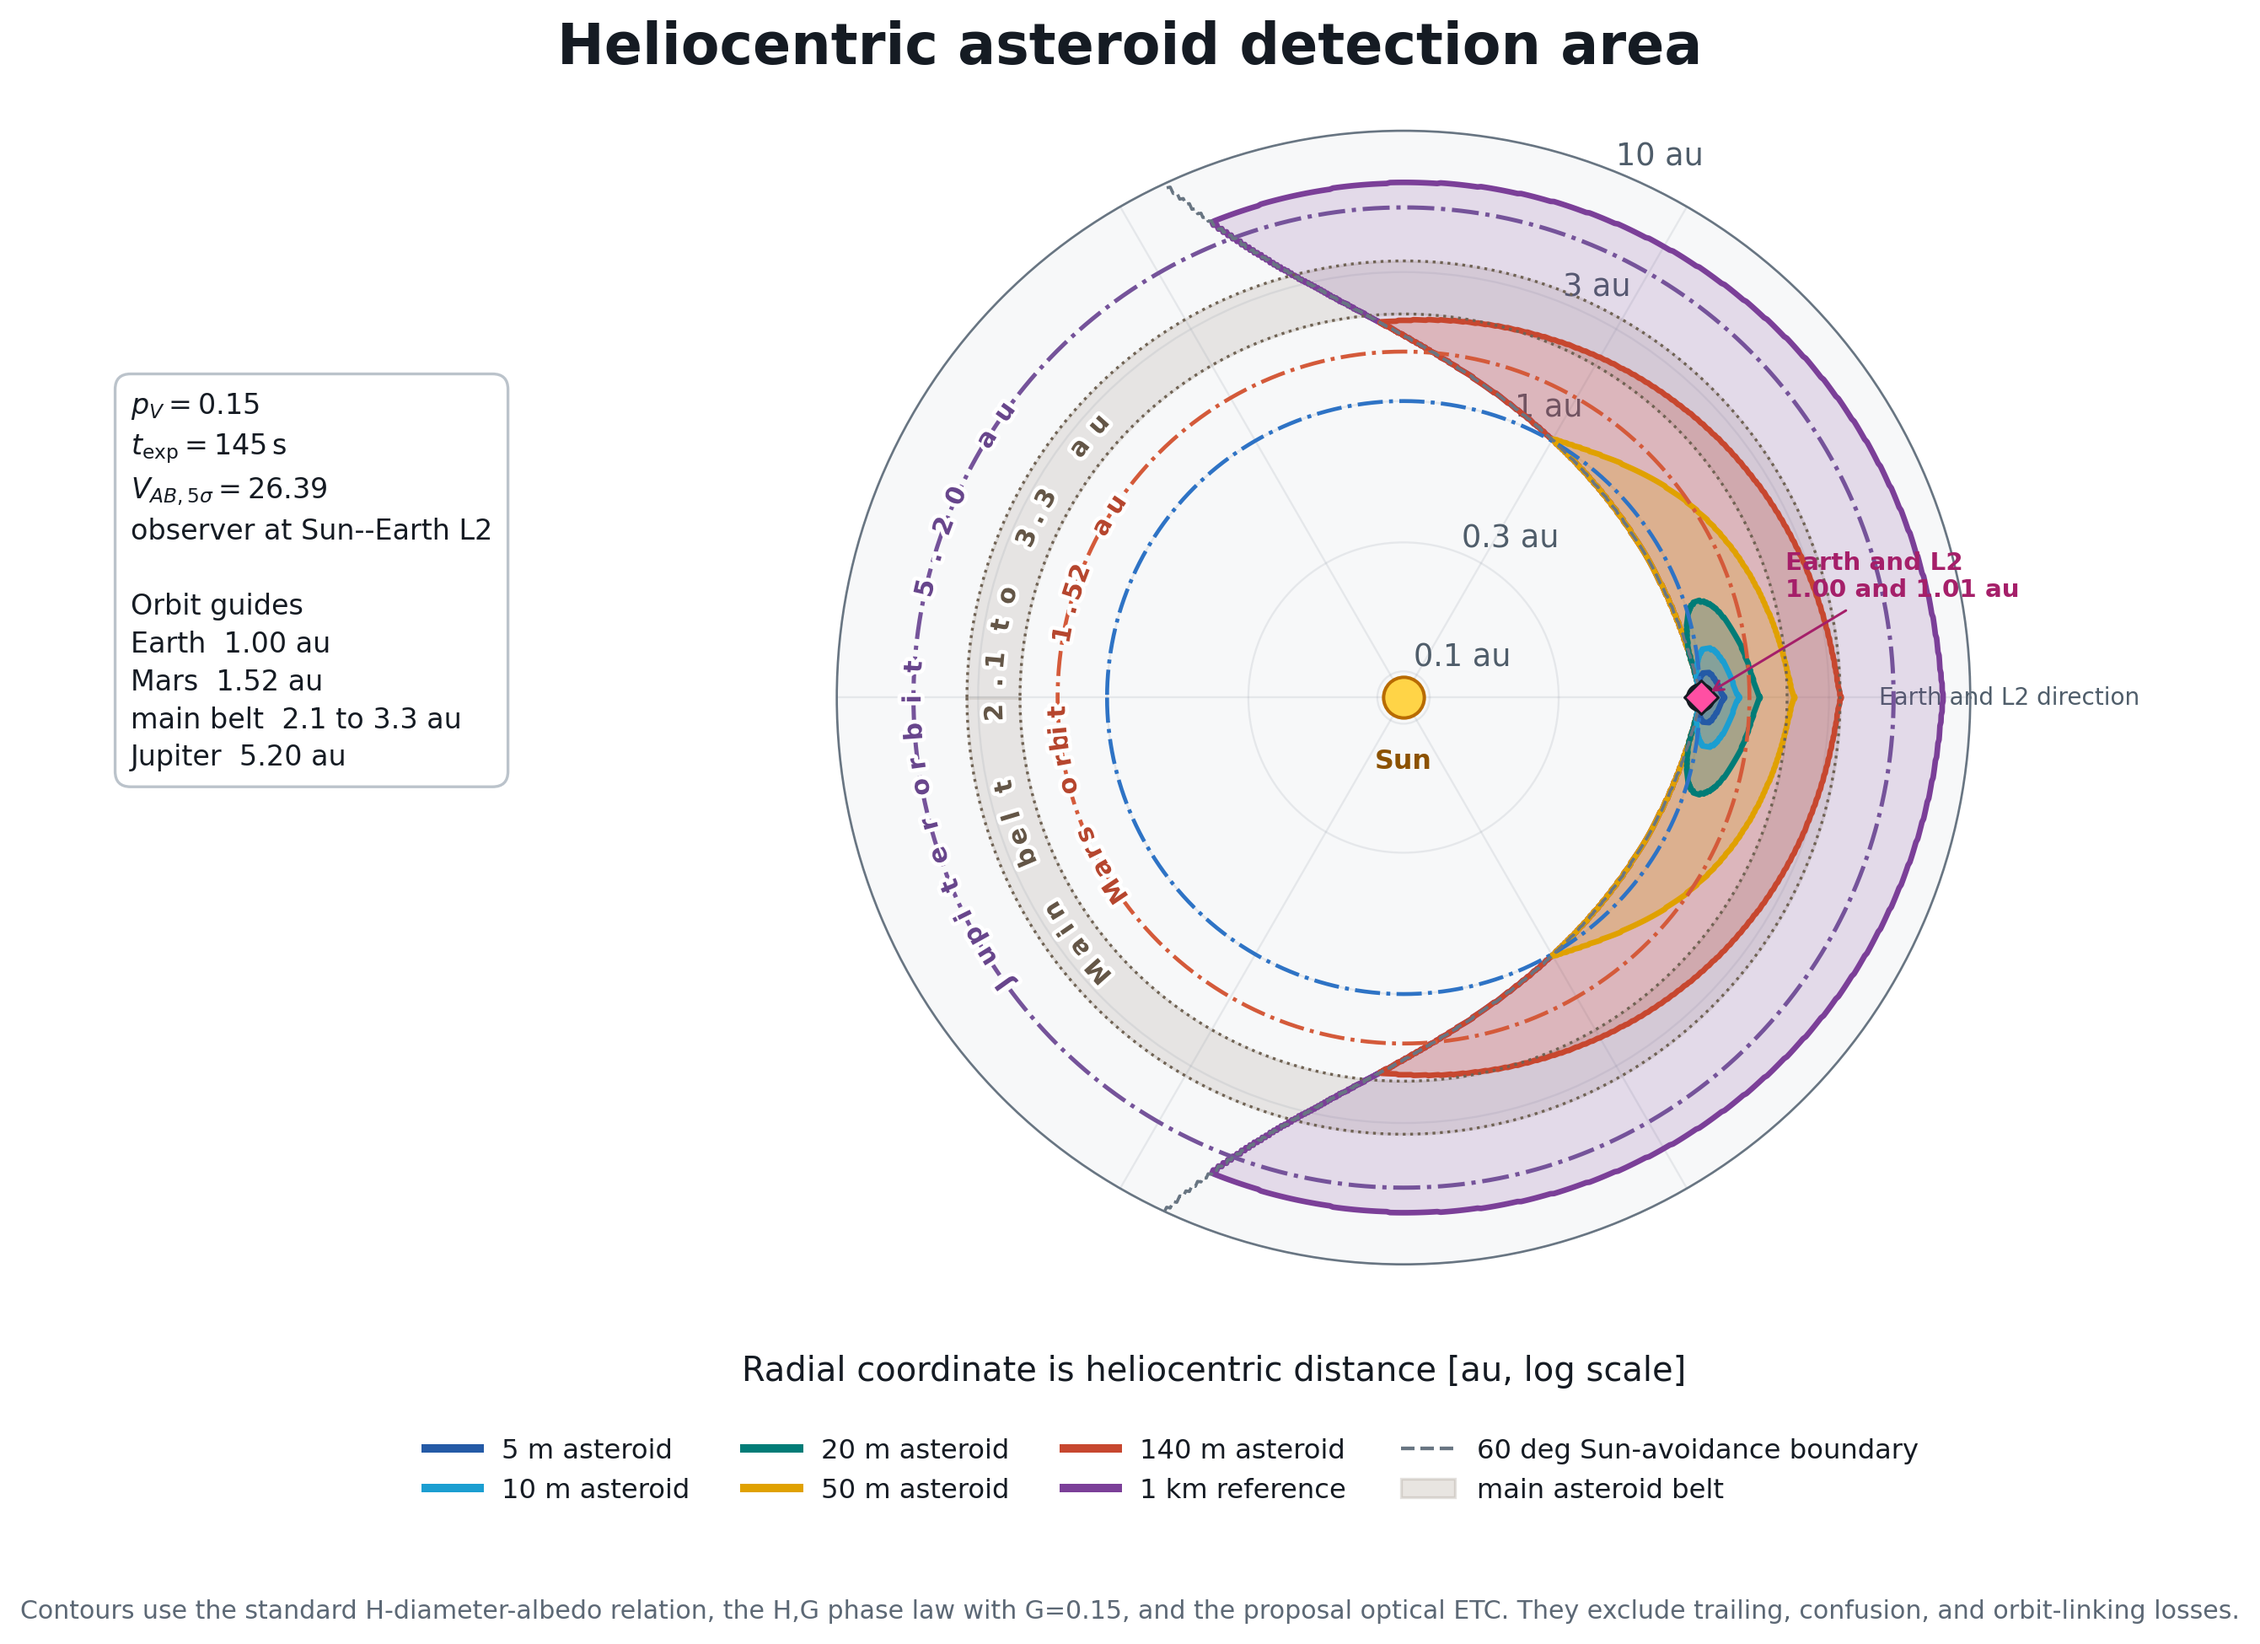
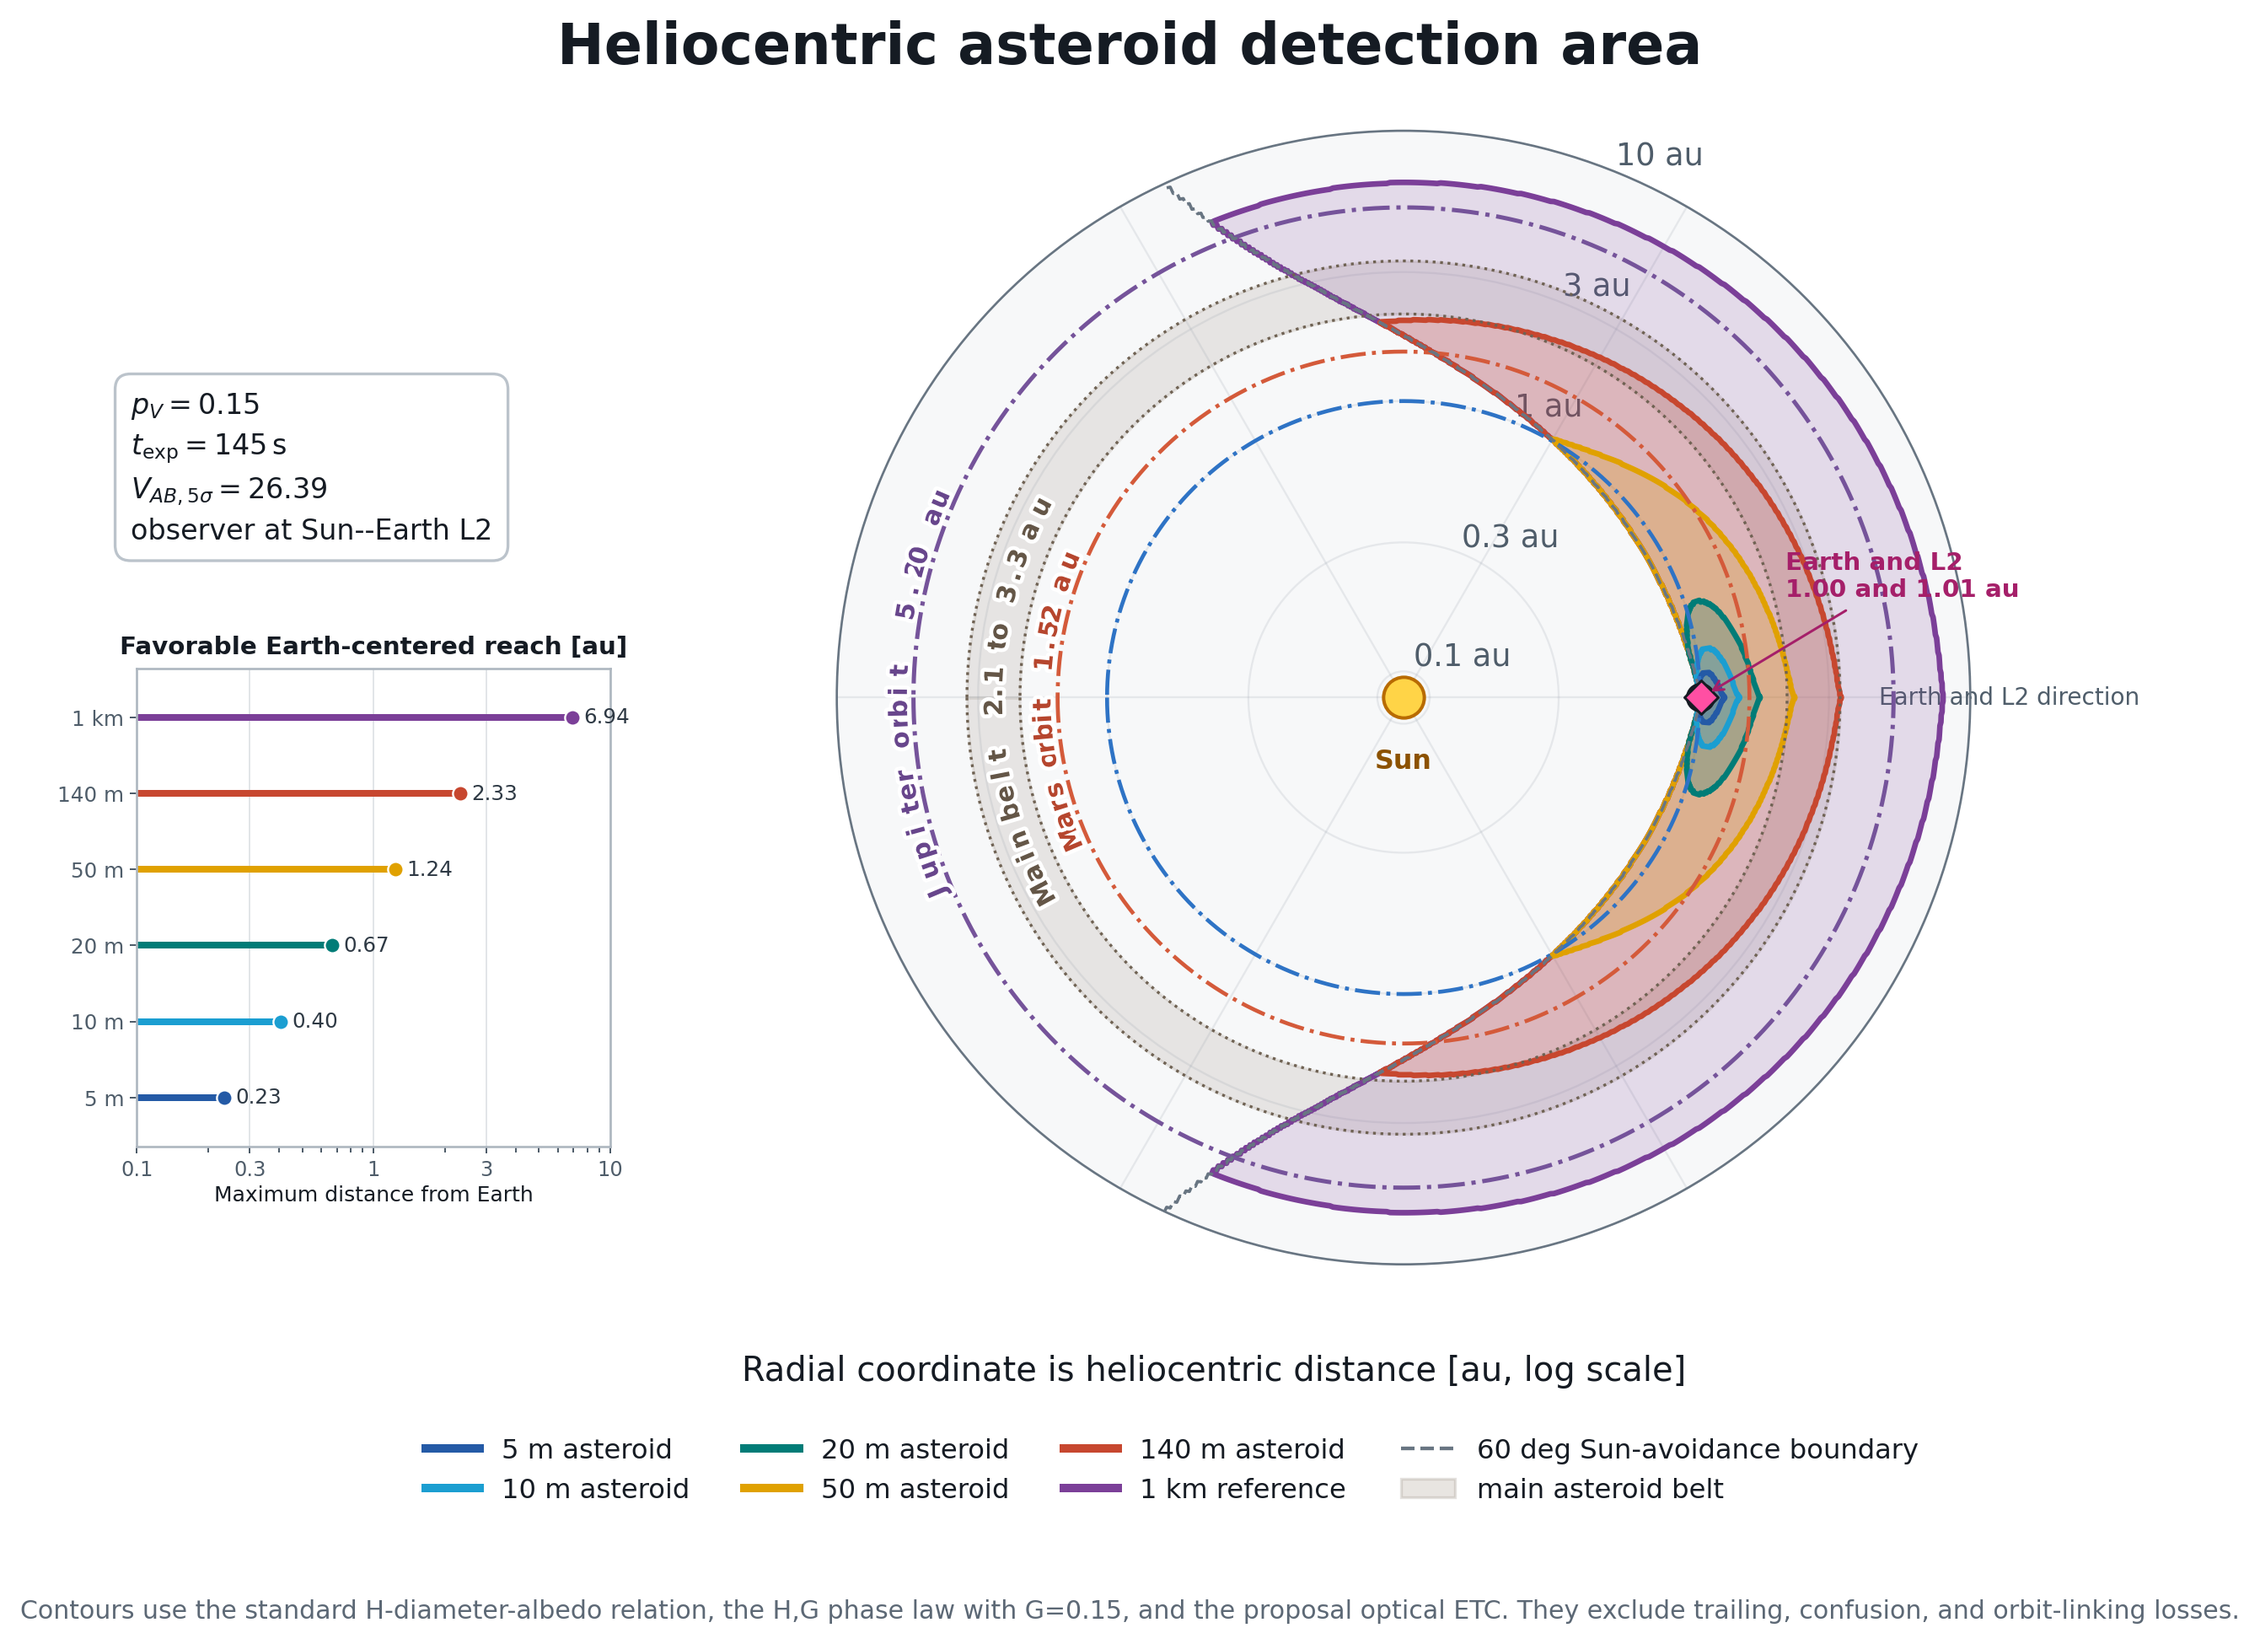
Replace Figure C.8 with heliocentric reach

diff --git a/make_neo_heliocentric_reach.py b/make_neo_heliocentric_reach.py
@@ -7,8 +7,10 @@ import matplotlib as mpl
 import matplotlib.pyplot as plt
 import matplotlib.patheffects as path_effects
 import numpy as np
+from matplotlib.font_manager import FontProperties
 from matplotlib.lines import Line2D
 from matplotlib.patches import Patch
+from matplotlib.textpath import TextPath
 
 import slitless_etc as etc
 from neo_population_model import hg_phase_function
@@ -95,6 +97,60 @@ def detected_mask(diameter_m, geometry, field_of_regard, limiting_magnitude):
     return field_of_regard & (apparent_magnitude <= limiting_magnitude)
 
 
+def earth_centered_reach_au(limiting_magnitude):
+    """Return the favorable maximum Earth-centered reach by diameter."""
+    theta = np.linspace(-np.pi, np.pi, 901)
+    earth_distance_au = np.geomspace(0.001, 12.0, 3000)
+    theta_grid, distance_grid = np.meshgrid(
+        theta,
+        earth_distance_au,
+        indexing="ij",
+    )
+    x_grid = distance_grid * np.cos(theta_grid)
+    y_grid = distance_grid * np.sin(theta_grid)
+
+    observer_x = L2_RADIUS_AU - EARTH_ORBIT_AU
+    delta_au = np.hypot(x_grid - observer_x, y_grid)
+    heliocentric_distance_au = np.hypot(x_grid + EARTH_ORBIT_AU, y_grid)
+    delta_safe = np.maximum(delta_au, 1.0e-8)
+    radius_safe = np.maximum(heliocentric_distance_au, 1.0e-8)
+
+    asteroid_to_sun_x = -EARTH_ORBIT_AU - x_grid
+    asteroid_to_sun_y = -y_grid
+    asteroid_to_l2_x = observer_x - x_grid
+    asteroid_to_l2_y = -y_grid
+    phase_cosine = (
+        asteroid_to_sun_x * asteroid_to_l2_x
+        + asteroid_to_sun_y * asteroid_to_l2_y
+    ) / (radius_safe * delta_safe)
+    phase_deg = np.degrees(np.arccos(np.clip(phase_cosine, -1.0, 1.0)))
+    phase_function = hg_phase_function(phase_deg)
+
+    elongation_cosine = -(x_grid - observer_x) / delta_safe
+    elongation_deg = np.degrees(
+        np.arccos(np.clip(elongation_cosine, -1.0, 1.0))
+    )
+    accessible = (
+        (elongation_deg >= ELONGATION_MIN_DEG)
+        & (heliocentric_distance_au >= 0.08)
+    )
+    geometry_term = (
+        5.0 * np.log10(radius_safe * delta_safe)
+        - 2.5 * np.log10(np.maximum(phase_function, 1.0e-12))
+    )
+
+    reach = {}
+    for diameter_m in DIAMETERS_M:
+        absolute_magnitude = 5.0 * np.log10(
+            1329.0 / ((diameter_m / 1000.0) * np.sqrt(ALBEDO))
+        )
+        detected = accessible & (
+            absolute_magnitude + geometry_term <= limiting_magnitude
+        )
+        reach[diameter_m] = float(np.max(distance_grid[detected]))
+    return reach
+
+
 def add_orbit_guides(axis, theta):
     """Draw Solar System orbit guides behind the detection contours."""
     axis.fill_between(
@@ -149,8 +205,22 @@ def add_orbit_guides(axis, theta):
 
 def add_arc_text(axis, text, radius_au, color, span_deg):
     """Place text along an orbit arc centered on the nine-o'clock direction."""
+    font_size = 9.0
+    font_properties = FontProperties(family="DejaVu Sans", weight="bold")
     glyphs = list(text)
-    weights = np.array([0.45 if glyph == " " else 1.0 for glyph in glyphs])
+    glyph_widths = []
+    for glyph in glyphs:
+        if glyph == " ":
+            glyph_widths.append(0.38 * font_size)
+            continue
+        bounds = TextPath(
+            (0.0, 0.0),
+            glyph,
+            size=font_size,
+            prop=font_properties,
+        ).get_extents()
+        glyph_widths.append(max(bounds.width, 0.20 * font_size))
+    weights = np.asarray(glyph_widths)
     cumulative = np.cumsum(weights) - 0.5 * weights
     offsets = (cumulative / weights.sum() - 0.5) * np.radians(span_deg)
     angles = np.pi + offsets[::-1]
@@ -167,7 +237,7 @@ def add_arc_text(axis, text, radius_au, color, span_deg):
             rotation=rotation,
             rotation_mode="anchor",
             color=color,
-            fontsize=9.0,
+            fontsize=font_size,
             weight="bold",
             path_effects=[
                 path_effects.withStroke(linewidth=2.8, foreground="white")
@@ -243,24 +313,84 @@ def add_solar_system_labels(axis):
     add_arc_text(
         axis,
         "Mars orbit  1.52 au",
-        MARS_ORBIT_AU,
+        1.72,
         "#B6462E",
-        span_deg=72,
+        span_deg=49,
     )
     add_arc_text(
         axis,
         "Main belt  2.1 to 3.3 au",
         2.60,
         "#645647",
-        span_deg=88,
+        span_deg=60,
     )
     add_arc_text(
         axis,
         "Jupiter orbit  5.20 au",
-        JUPITER_ORBIT_AU,
+        5.85,
         "#68468C",
-        span_deg=75,
+        span_deg=48,
     )
+
+
+def add_earth_reach_inset(figure, reach_by_diameter):
+    """Add a compact log-scale summary that supports warning-time estimates."""
+    inset = figure.add_axes((0.028, 0.295, 0.225, 0.285))
+    y_positions = np.arange(len(DIAMETERS_M))
+    for y_position, diameter_m in zip(y_positions, DIAMETERS_M):
+        reach_au = reach_by_diameter[diameter_m]
+        color = DIAMETER_COLORS[diameter_m]
+        inset.hlines(
+            y_position,
+            0.1,
+            reach_au,
+            color=color,
+            linewidth=2.4,
+            zorder=2,
+        )
+        inset.scatter(
+            reach_au,
+            y_position,
+            s=30,
+            color=color,
+            edgecolor="white",
+            linewidth=0.7,
+            zorder=3,
+        )
+        inset.annotate(
+            f"{reach_au:.2f}",
+            (reach_au, y_position),
+            xytext=(4, 0),
+            textcoords="offset points",
+            ha="left",
+            va="center",
+            fontsize=7.4,
+            color="#2E3944",
+        )
+
+    inset.set_xscale("log")
+    inset.set_xlim(0.1, 10.0)
+    inset.set_ylim(-0.65, len(DIAMETERS_M) - 0.35)
+    inset.set_xticks((0.1, 0.3, 1.0, 3.0, 10.0))
+    inset.set_xticklabels(("0.1", "0.3", "1", "3", "10"), fontsize=7.2)
+    inset.set_yticks(y_positions)
+    inset.set_yticklabels(
+        ("5 m", "10 m", "20 m", "50 m", "140 m", "1 km"),
+        fontsize=7.4,
+    )
+    inset.set_title(
+        "Favorable Earth-centered reach [au]",
+        fontsize=8.8,
+        weight="bold",
+        pad=5,
+    )
+    inset.set_xlabel("Maximum distance from Earth", fontsize=7.5, labelpad=2)
+    inset.grid(axis="x", color="#8E99A5", alpha=0.25, linewidth=0.6)
+    inset.tick_params(axis="both", length=2.5, width=0.6, pad=2)
+    for spine in inset.spines.values():
+        spine.set_color("#AEB7C0")
+        spine.set_linewidth(0.8)
+    inset.set_facecolor("white")
 
 
 def main():
@@ -287,6 +417,7 @@ def main():
         snr=5.0,
     )
     limiting_magnitude = FIGURE_C8_LIMITING_MAGNITUDE
+    earth_reach = earth_centered_reach_au(limiting_magnitude)
 
     figure, axis = plt.subplots(
         1,
@@ -336,6 +467,7 @@ def main():
         zorder=8,
     )
     add_solar_system_labels(axis)
+    add_earth_reach_inset(figure, earth_reach)
 
     axis.set_theta_zero_location("E")
     axis.set_theta_direction(1)
@@ -363,12 +495,6 @@ def main():
             rf"$t_{{\rm exp}}={EXPOSURE_S:.0f}\,\mathrm{{s}}$",
             rf"$V_{{AB,5\sigma}}={limiting_magnitude:.2f}$",
             r"observer at Sun--Earth L2",
-            "",
-            "Orbit guides",
-            rf"Earth  {EARTH_ORBIT_AU:.2f} au",
-            rf"Mars  {MARS_ORBIT_AU:.2f} au",
-            rf"main belt  {MAIN_BELT_INNER_AU:.1f} to {MAIN_BELT_OUTER_AU:.1f} au",
-            rf"Jupiter  {JUPITER_ORBIT_AU:.2f} au",
         )
     )
     figure.text(
@@ -460,6 +586,13 @@ def main():
         f"Figure C.8 reference limit is {limiting_magnitude:.3f} AB mag. "
         f"The current local ETC returns {current_etc_limiting_magnitude:.3f} "
         "AB mag for the same exposure."
+    )
+    print(
+        "Maximum Earth-centered reach: "
+        + ", ".join(
+            f"{diameter_m:g} m = {earth_reach[diameter_m]:.3f} au"
+            for diameter_m in DIAMETERS_M
+        )
     )
 
 

diff --git a/appendix_C_solar_system.tex b/appendix_C_solar_system.tex
@@ -896,42 +896,25 @@ The larger field requires a separate focal-plane, optical, telemetry, and
 cost trade.
 \end{resultbox}
 
-\subsection{Earth-centered detection area and ideal warning time}
+\subsection{Single-exposure detection area and ideal warning time}
 
 Figure~\ref{fig:neo-single-visit-reach} converts the optical ETC limit into
-an Earth-centered detection area. The calculation uses a 145\,s Johnson
-$V$ exposure with a $5\sigma$ limit of $V_{\rm AB}=26.39$. The assumed
-geometric albedo is $p_V=0.15$. The standard diameter relation in
+a heliocentric detection area. The calculation uses a 145\,s Johnson $V$
+exposure with a $5\sigma$ limit of $V_{\rm AB}=26.39$. The geometric albedo
+is $p_V=0.15$. The standard diameter relation in
 Equation~\ref{eq:h-diameter} and the $H,G$ phase law with $G=0.15$ determine
 the reflected flux \cite{Bowell1989}. The observer is placed at Sun--Earth
-L2, 0.01\,au from Earth in the figure geometry.
+L2, 0.01\,au beyond Earth.
 
-\begin{figure}[H]
-\centering
-\includegraphics[width=\textwidth]{appendixC_assets/neo_single_visit_reach.png}
-\caption{Earth-centered single-exposure detection area for reflected light.
-The radial coordinate is the distance from Earth on a logarithmic scale, and
-the radial tick labels are given in au.
-The colored contours show where each representative asteroid reaches
-$\mathrm{S/N}\geq5$ in a 145\,s Johnson $V$ exposure. The Sun is one au from
-Earth. The L2 observer is 0.01\,au from Earth. Every contour adopts
-$p_V=0.15$ and the $H,G$ phase law. The greatest radial reach occurs near
-opposition because the illuminated fraction and reflected-light geometry
-are favorable. The contours are instantaneous flux limits. Trailing,
-confusion, cadence, linking losses, and orbit uncertainty are not included.}
-\label{fig:neo-single-visit-reach}
-\end{figure}
-
-The same flux limit becomes easier to interpret in a heliocentric frame.
-Figure~\ref{fig:neo-single-visit-heliocentric} places the Sun at the origin
-and marks the orbital radii of Mars and Jupiter together with the main
-asteroid belt. The $140$\,m contour intersects the $2.1$--$3.3$\,au main
-belt where the phase angle and observer distance are favorable. A
-$140$\,m main-belt asteroid can therefore exceed the single-exposure
-$5\sigma$ threshold in the accessible near-side geometry. The 1\,km
-reference contour crosses the $5.20$\,au orbit of Jupiter and extends beyond
-that orbit near opposition. These intersections describe instantaneous flux
-reach. They do not imply complete coverage of either orbital population.
+The Sun-centered panel marks the orbital radii of Mars and Jupiter together
+with the main asteroid belt. The $140$\,m contour intersects the
+$2.1$--$3.3$\,au main belt where the phase angle and observer distance are
+favorable. Asteroids down to approximately 140\,m can therefore exceed the
+single-exposure threshold in the accessible near side of the belt. The
+1\,km contour crosses the $5.20$\,au orbit of Jupiter and extends beyond it
+near opposition. The inset gives the corresponding maximum distance from
+Earth for each diameter. It retains the distance scale needed for the ideal
+warning-time calculation below.
 
 \begin{figure}[H]
 \centering
@@ -940,12 +923,13 @@ reach. They do not imply complete coverage of either orbital population.
 The radial coordinate is heliocentric distance on a logarithmic scale. The
 orbit guides mark Earth at $1.00$\,au, Mars at $1.52$\,au, the main asteroid
 belt from $2.1$ to $3.3$\,au, and Jupiter at $5.20$\,au. The colored contours
-use the same 145\,s Johnson $V$ exposure, $p_V=0.15$, and $H,G$ phase law as
-Figure~\ref{fig:neo-single-visit-reach}. The $140$\,m contour reaches the
-near-side main belt under favorable illumination. The 1\,km contour extends
-beyond Jupiter's orbit near opposition. The contours omit trailing,
+use a 145\,s Johnson $V$ exposure, $p_V=0.15$, and the $H,G$ phase law. The
+$140$\,m contour reaches the near side of the main belt under favorable
+illumination. The 1\,km contour extends beyond Jupiter's orbit near
+opposition. The inset reports the favorable maximum Earth-centered distance
+for each diameter. These are instantaneous flux limits. They omit trailing,
 confusion, cadence, linking losses, and orbit uncertainty.}
-\label{fig:neo-single-visit-heliocentric}
+\label{fig:neo-single-visit-reach}
 \end{figure}
 
 The direction of easiest discovery is not the physical source direction of
